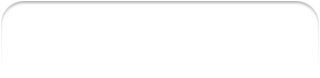
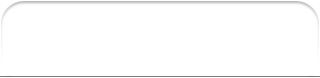
appcat theme tweaks

Changed region(s): [[0.0, 0.9744, 1.0, 1.0]]

diff --git a/stylesheets/theme-appcat.css b/stylesheets/theme-appcat.css
@@ -250,6 +250,28 @@ body.palm-dark.appcat .pkg-install #spinner #spinnerStatus
 }
 
 /* Package View Scene Styles */
+body.palm-dark.appcat .pkg-view .palm-header
+{
+	position: relative;
+	padding: 0px;
+	border-width: 35px 24px 13px 24px;
+	-webkit-border-image: url(../images/appcat/palm-page-header.png) 35 24 13 24 repeat stretch;
+	-webkit-box-sizing: border-box;
+	height: 65px;
+	margin-bottom: -1px;
+}
+body.palm-dark.appcat .pkg-view .palm-header #icon
+{
+	margin-top: -26px;
+}
+body.palm-dark.appcat .pkg-view .palm-header #title
+{
+	margin-top: -26px;
+}
+body.palm-dark.appcat .pkg-view .palm-header-spacer
+{
+	height: 0px;
+}
 body.palm-dark.appcat .pkg-view {
 	color: #ffffff;
 }
